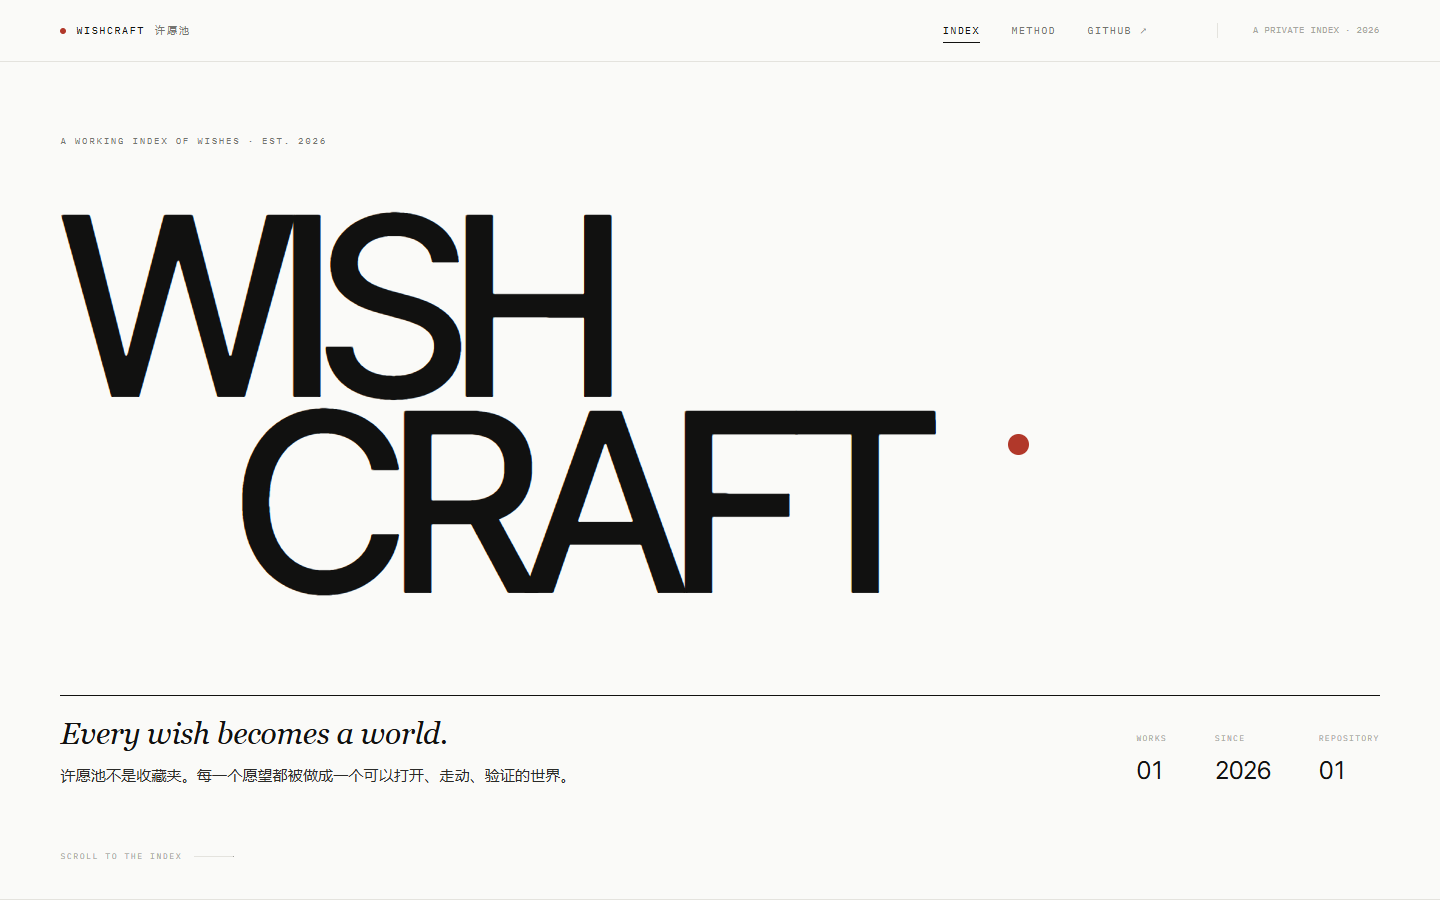
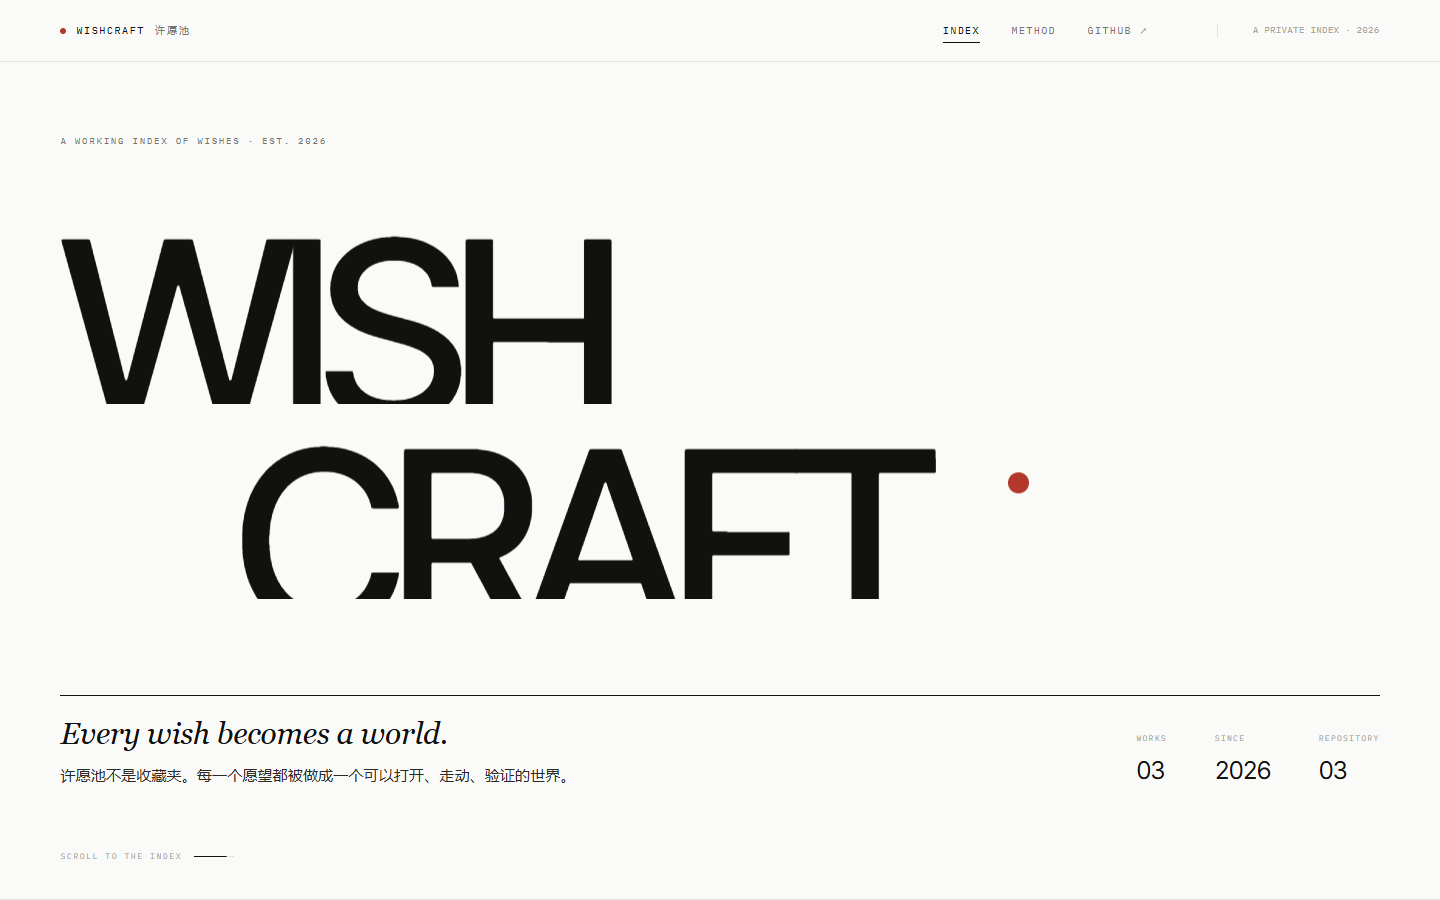
docs: refresh README overview for three works

diff --git a/README.md b/README.md
@@ -7,6 +7,8 @@
 
 当前收录 **03 个作品**：
 
+![WISHCRAFT · 许愿池](docs/portfolio.png)
+
 ## THE INTELLIGENCE ARCHIVE / 智能编年史
 
 > 从图灵的第一个问题，到能够自主执行任务的人工智能。1950—2026。
@@ -19,7 +21,7 @@
 - **技术**：Vite + React + TypeScript + Three.js；静态部署，无后端
 - **入口**：`projects/intelligence-archive/`；项目内文档见 `docs/DATA_REPORT.md`、`docs/VERIFICATION.md`、`docs/SOURCES.md`
 
-![THE INTELLIGENCE ARCHIVE](docs/portfolio.png)
+![THE INTELLIGENCE ARCHIVE](site/assets/covers/intelligence-archive.jpg)
 
 ## THE INFERENCE / 推理现场
 
